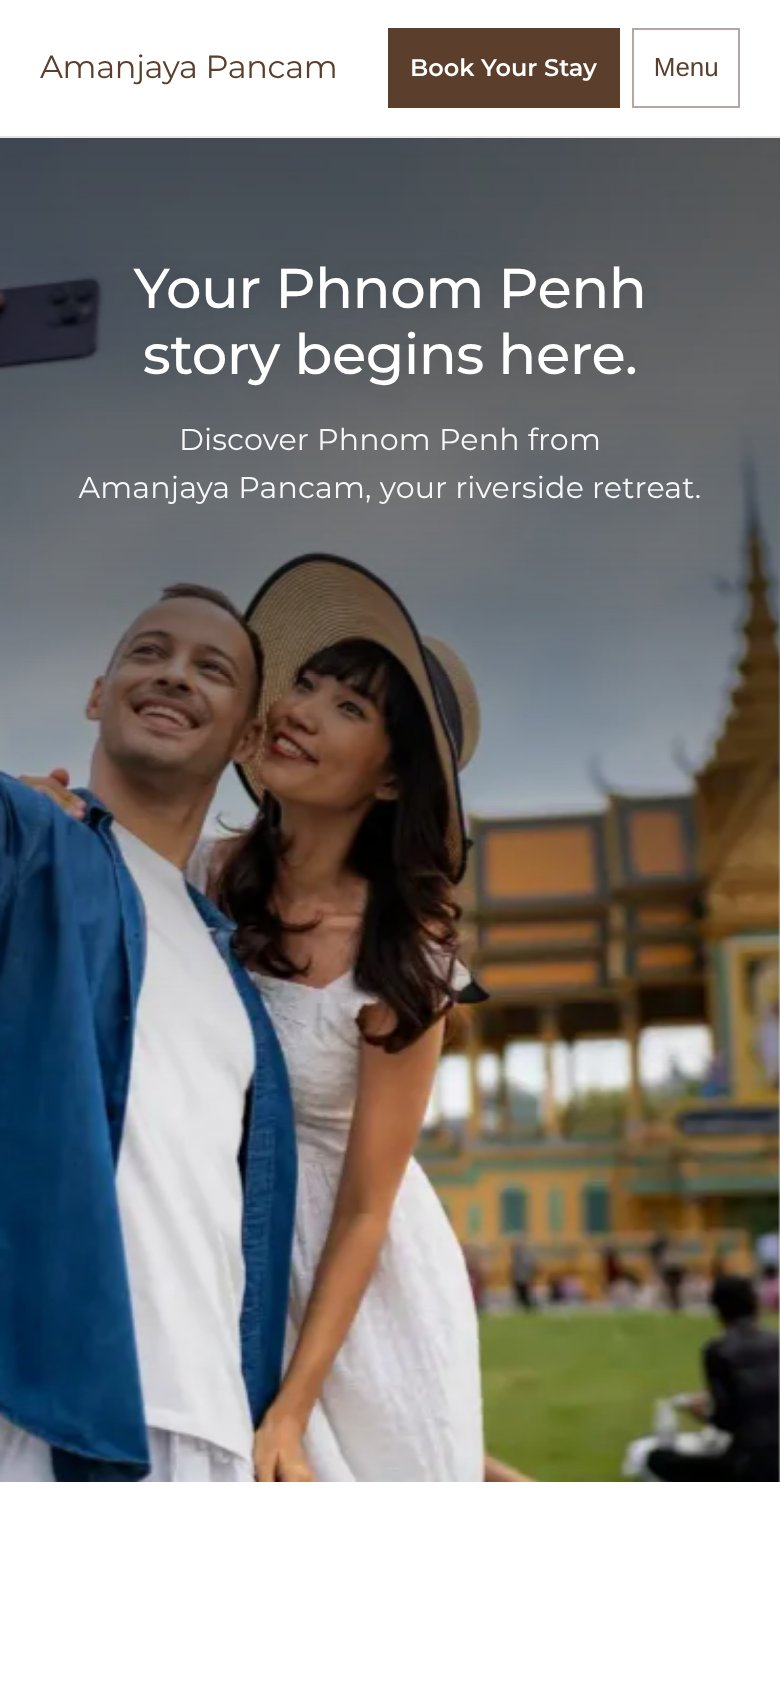
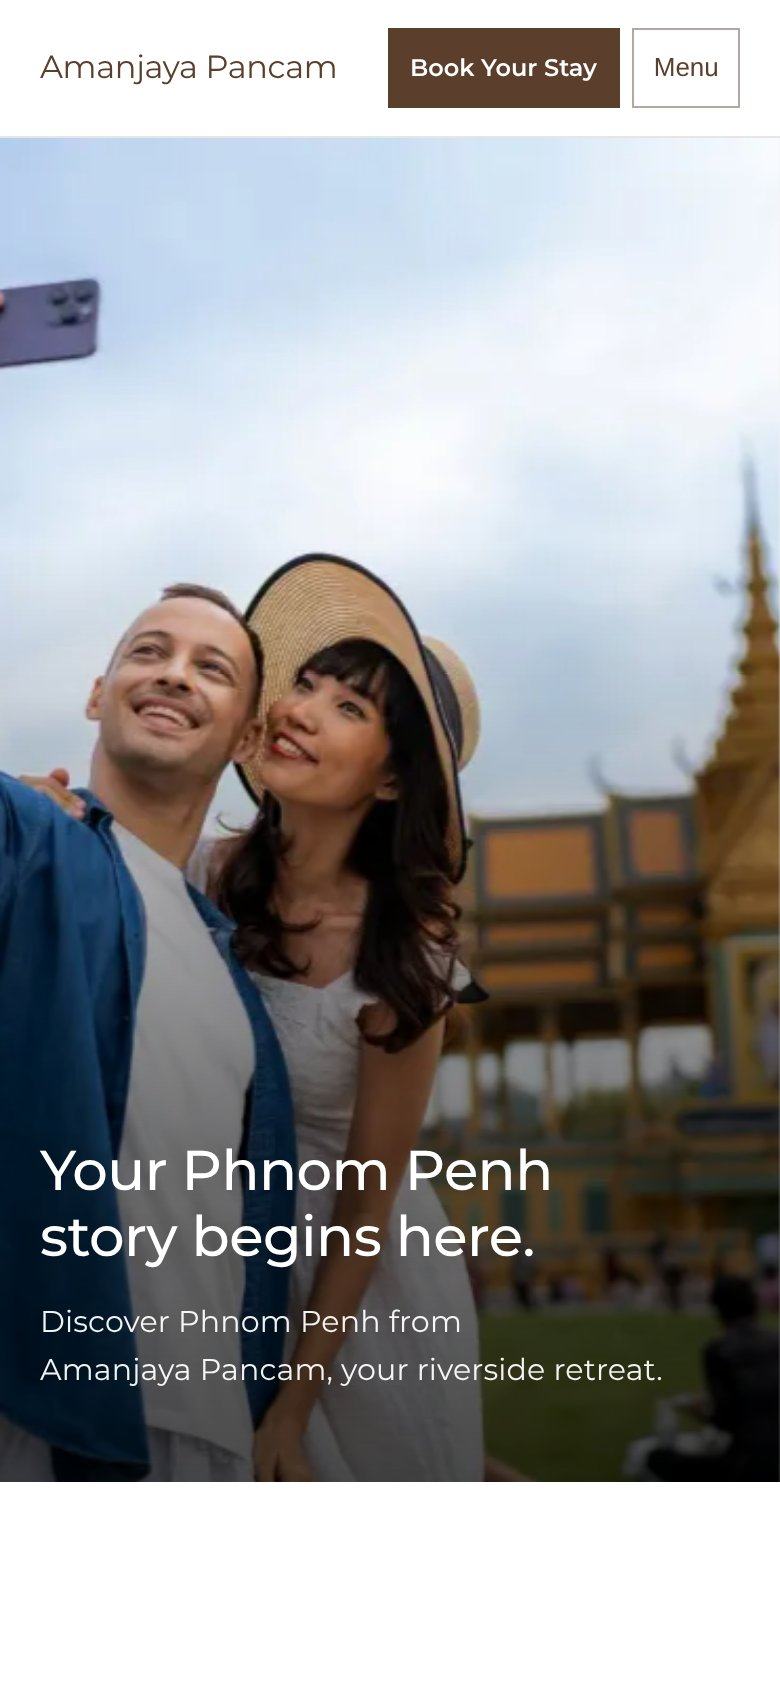
Hero: text back on the right, vertically centred and left-aligned
From 72rem the headline and supporting line sit on the right at 50% of the
hero's height, left-aligned, clear of both faces and the hat; a soft vignette on
the text and a light right-hand gradient keep it readable (headline 3.9:1 or
better, supporting line 4.3:1 or better at the worst point). Below 72rem,
including phones, the block sits at the foot of the photograph under both
faces. The earlier 14% photo enlargement is removed. The second CTA, address
strip and hero waterline stay removed.

Claude-Session: https://claude.ai/code/session_01Ltb6LhfXKYs7J7ZKfoUyej

diff --git a/docs/DESIGN-RATIONALE.md b/docs/DESIGN-RATIONALE.md
@@ -8,17 +8,17 @@ A hairline in bronze with a river-gauge scale hanging from it. It no longer sits
 
 ## The hero
 
-A full-width, immersive photograph with the text set directly on it in white Montserrat, centred in the upper third. It replaced the earlier white text panel, and nothing sits beneath it: the second booking button, the address strip and the waterline were removed so the photograph does the work. Booking stays in the header (and the footer); the address is in the Riverside section and the footer.
+A full-width, immersive photograph with the text set directly on it in white Montserrat. It replaced the earlier white text panel, and nothing sits beneath it: the second booking button, the address strip and the hero waterline were removed so the photograph does the work. Booking stays in the header (and the footer); the address is in the Riverside section and the footer.
 
 - **Photograph.** A couple taking a selfie in front of the Royal Palace (`src/assets/photos/amanajaya-hero.webp`, 2048px, uploaded by the hotel team; its source and licence are still to be confirmed). The previous hero, the couple in front of the hotel, is kept as option E in `src/content/home.ts` (`PUBLIC_HERO_OPTION=E npm run dev`).
-- **Words.** Headline: "Your Phnom Penh story begins here." (Medium 500, up to 40px). Beneath it, in the same block and centred on the same axis: "Discover Phnom Penh from Amanjaya Pancam, your riverside retreat." (Regular 400, 15 to 17px, so clearly quieter). Both wrap to two balanced lines at every width, and "Phnom Penh" and "Amanjaya Pancam" never split across lines.
-- **Placement.** The block is centred across the full width at every screen size, starting about 7% down the photograph, so it ends well above both faces (the woman's hat top is the nearest thing under it).
-- **Crops.** Focal points are set per photograph in `home.ts`: `position` for desktop (50% 20%) and `positionMobile` for phones (50% 35%, a narrow window on the two faces). From 56rem the photograph is also enlarged about 14% and anchored to the right edge (`Hero.astro`), which moves the man's raised phone out from behind the centred headline and brings the couple nearer the middle. Both faces are fully visible at every width tested, 360 to 1920px.
-- **No colour treatment.** The only overlay is a neutral black gradient over the top of the photograph (about 66% at the top, fading to nothing by 70% of the way down, so the faces are essentially untouched). No golden, brown or blend-mode filter.
-- **Readability, measured** against the brightest pixels behind the text, 360 to 1920px: headline 5.1:1 or better at the worst point; supporting line 4.3:1 or better at the worst point, with the typical pixel at 4.5:1 or better. AA asks 3:1 for large text and 4.5:1 for small.
+- **Words.** Headline: "Your Phnom Penh story begins here." (Medium 500, up to 40px). Beneath it, in the same block and on the same left edge: "Discover Phnom Penh from Amanjaya Pancam, your riverside retreat." (Regular 400, 15 to 17px, so clearly quieter). Both wrap to two balanced lines at every width, and "Phnom Penh" and "Amanjaya Pancam" never split across lines. Both are left-aligned.
+- **Placement.** From 72rem (1152px) the block sits on the right, vertically centred (measured at 50% of the hero's height at every width), aligned with the right edge of the page content. Its left edge stays clear of the woman's hat. Below 72rem, including tablets and phones, the block sits at the foot of the photograph, under both faces.
+- **Crops.** Focal points are set per photograph in `home.ts`: `position` for desktop (50% 20%) and `positionMobile` for phones (50% 35%, a narrow window on the two faces). Both faces are fully visible at every width tested, 360 to 1920px.
+- **No colour treatment.** The only overlay is neutral black. On wide screens it is a soft vignette centred on the text block plus a light gradient from the right-hand edge, both gone before the couple; below 72rem it is a gradient rising from the bottom. No golden, brown or blend-mode filter.
+- **Readability, measured** against the brightest pixels behind the text, 360 to 1920px: headline 3.9:1 or better at the worst point (typically 4.7 to 11:1); supporting line 4.3:1 or better at the worst point. AA asks 3:1 for large text and 4.5:1 for small.
 - The photograph settles once on load (off under reduced motion). Responsive WebP sizes are generated up to the original 2048px (not enlarged); loaded eagerly with high priority.
 - Under 360px wide the header has no room for the Book Your Stay button, so the link moves into the menu panel.
-- `docs/screenshots/hero-text-left-comparison.jpg` is an earlier experiment (a left-hand text block, made with the previous hotel photograph).
+- Layout history: a centred, upper-third version existed briefly and was replaced by this one. `docs/screenshots/hero-text-left-comparison.jpg` is an earlier experiment with a left-hand block on the previous photograph.
 
 ## Type
 
